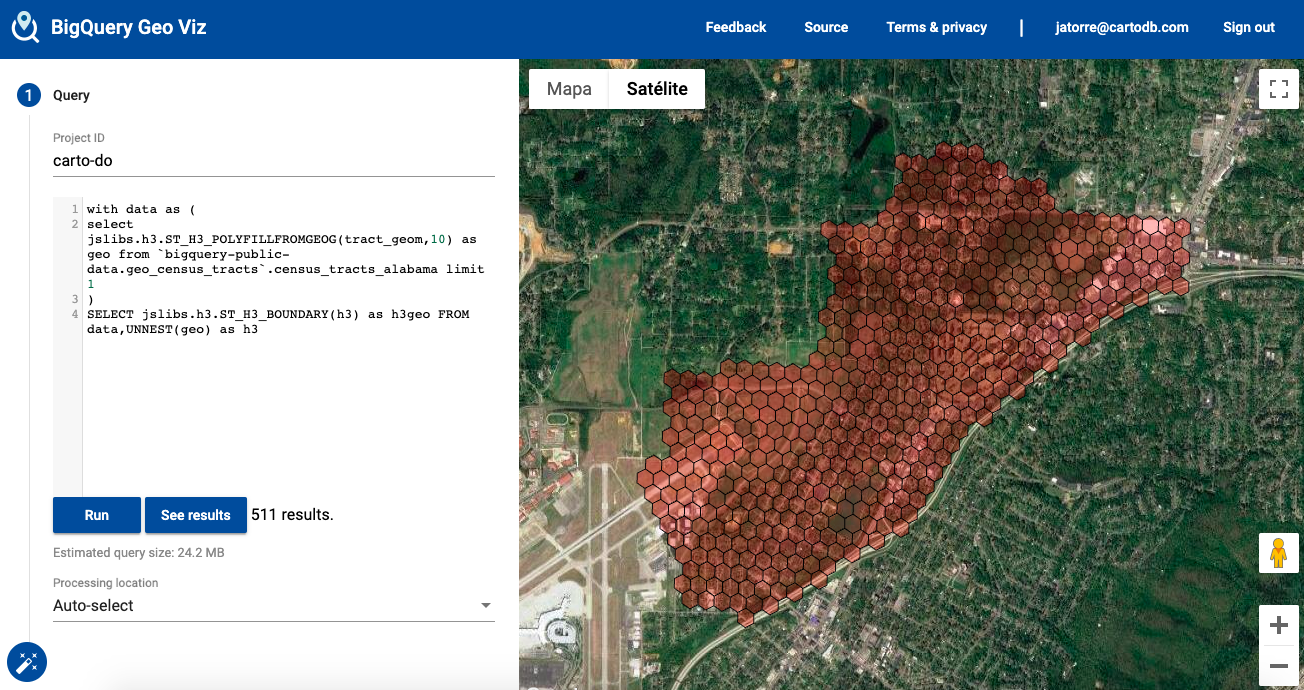
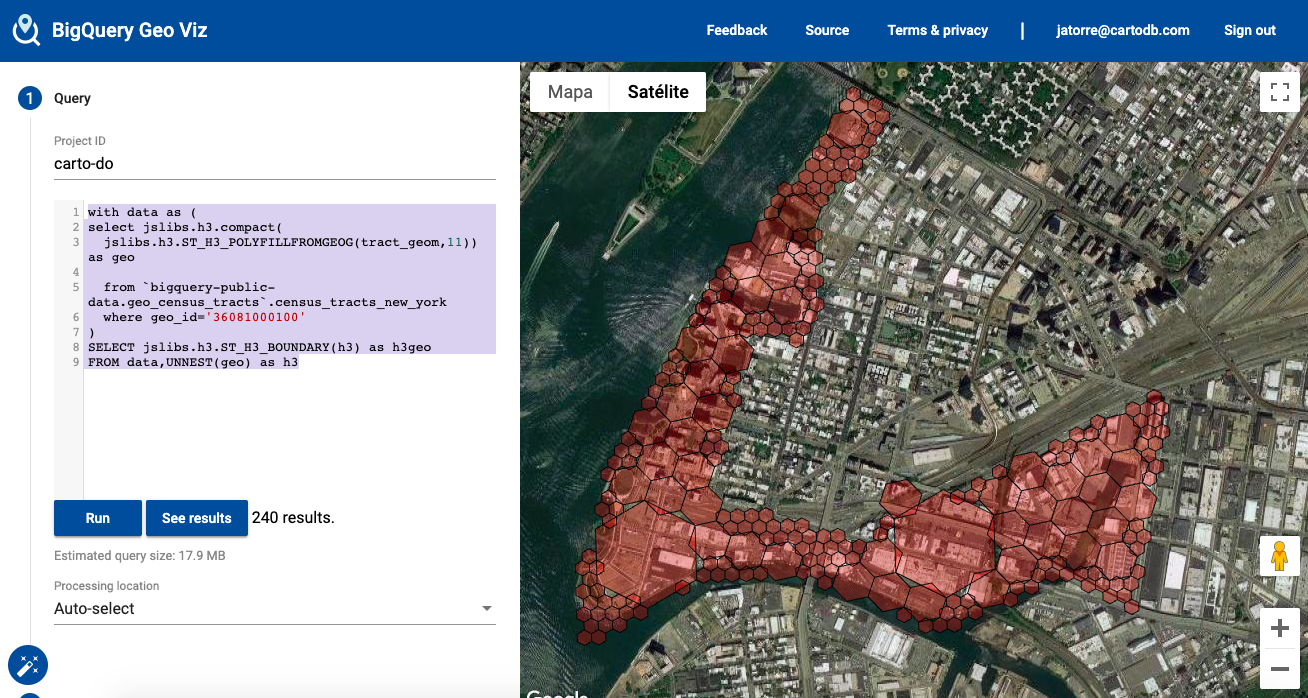
Changed example of compact census tract

diff --git a/README.md b/README.md
@@ -27,10 +27,20 @@ or
 
 `SELECT jslibs.h3_3_5_0.ST_H3(pointGeog,7)`
 
-## Screenshots
+## Screenshots and examples
 
 First library included is H3 so here are a few screenshots of their use.
 
+```
+WITH data as (
+	SELECT jslibs.h3.compact(
+  	jslibs.h3.ST_H3_POLYFILLFROMGEOG(tract_geom,11)) as geo 
+  	FROM `bigquery-public-data.geo_census_tracts`.census_tracts_new_york 
+  	WHERE geo_id='36081000100')
+
+SELECT jslibs.h3.ST_H3_BOUNDARY(h3) as h3geo 
+FROM data,UNNEST(geo) as h3
+```
 ![alt text](screenshots/compat_census_tract.png)
 
 ![alt text](screenshots/kring_point.png)
